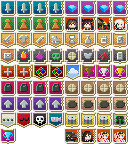
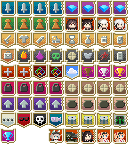
뱃지

Changed region(s): [[0.25, 0.4444, 0.7812, 0.5556], [0.375, 0.8889, 0.5, 1.0], [0.75, 0.1111, 0.875, 0.2222]]

diff --git a/core/src/main/java/com/gfpixel/gfpixeldungeon/Badges.java b/core/src/main/java/com/gfpixel/gfpixeldungeon/Badges.java
@@ -68,7 +68,9 @@ public class Badges {
 		BOSS_SLAIN_2( 13 ),
 		BOSS_SLAIN_3( 14 ),
 		BOSS_SLAIN_4( 15 ),
-		BOSS_SLAIN_5( 15 ),
+		BOSS_SLAIN_5( 68 ),
+		BOSS_SLAIN_6( 69 ),
+		BOSS_SLAIN_RABBIT( 67 ),
 		ALL_WEAPONS_IDENTIFIED( 16 ),
 		ALL_ARMOR_IDENTIFIED( 17 ),
 		ALL_WANDS_IDENTIFIED( 18 ),
